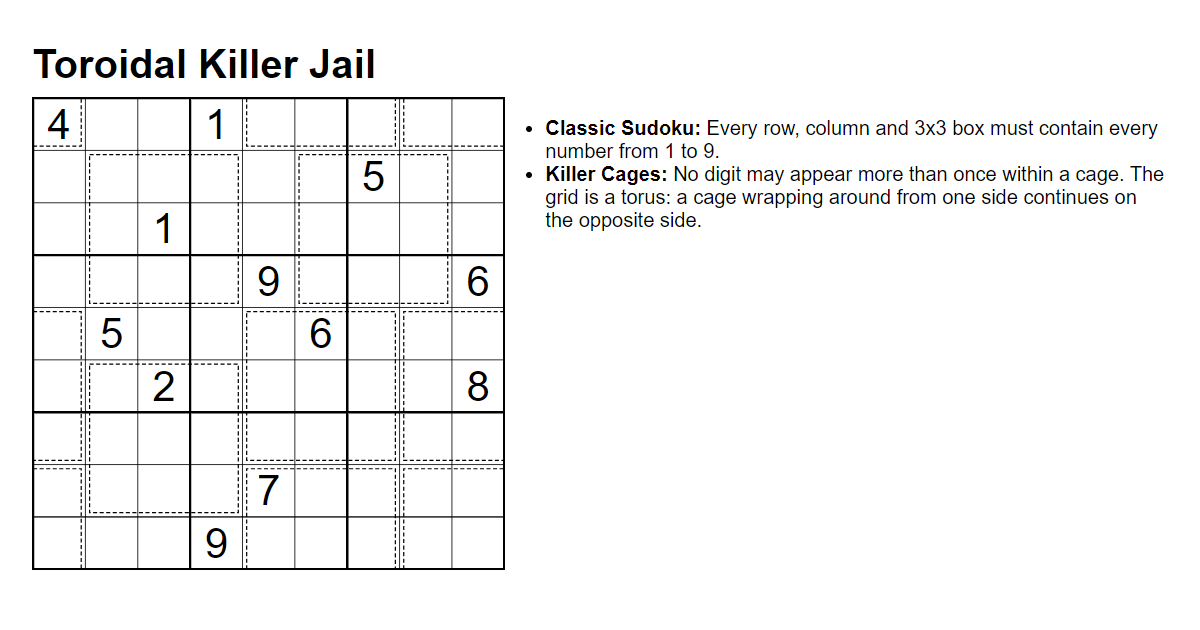
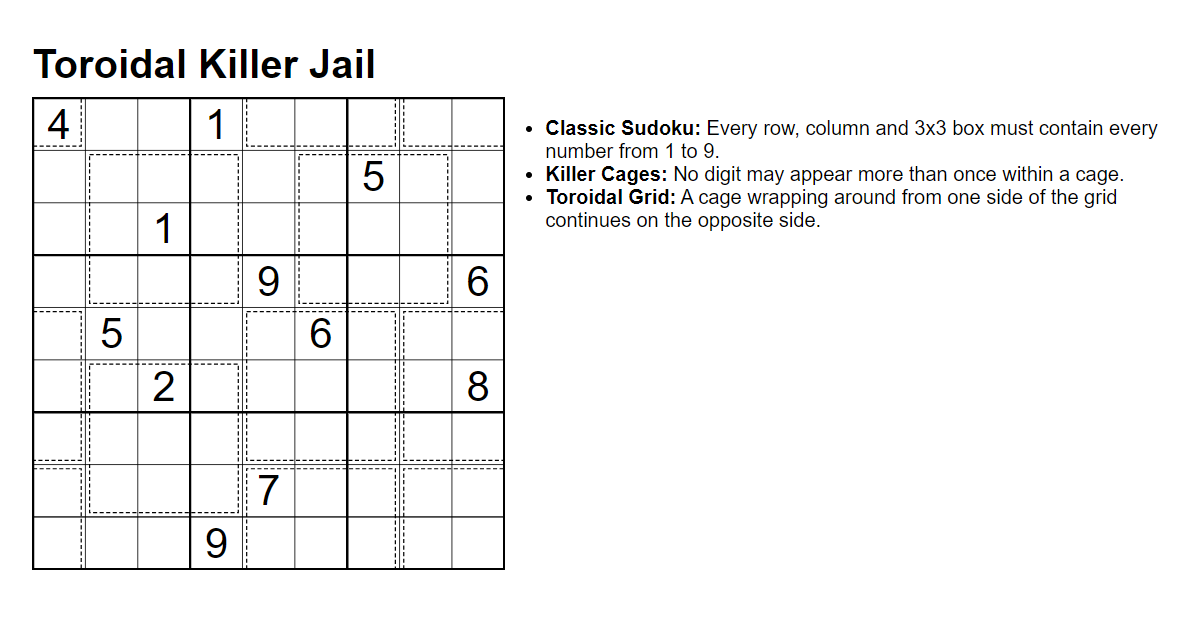
Added new puzzle

Changed region(s): [[0.4317, 0.3016, 0.9558, 0.3619], [0.9558, 0.2714, 0.9867, 0.3016]]

diff --git a/lmd-manager.js b/lmd-manager.js
@@ -1,5 +1,5 @@
 const fs = require('fs');
-const {load: cheerioLoad} = require('cheerio');
+const { load: cheerioLoad } = require('cheerio');
 const { load: ymlLoad } = require('js-yaml');
 const { marked } = require('marked');
 const { Resvg } = require('@resvg/resvg-js');
@@ -8,12 +8,13 @@ const EDIT_PUZZLE_URL = 'https://logic-masters.de/Raetselportal/Eigene/einstelle
 const UPLOAD_IMAGE_URL = 'https://logic-masters.de/Dateien/index.php';
 
 function ymlFromSlug(slug) {
-  return ymlLoad(fs.readFileSync(`./_puzzles/${slug}.md`,'utf-8')
-    .trim().slice(0, -3));
+  if (!slug)
+    return ymlLoad(fs.readFileSync(`./_puzzles/${slug}.md`, 'utf-8')
+      .trim().slice(0, -3));
 }
 
 async function sessionFetchCheerio(url, options = {}) {
-  const postResponse = await sessionFetch(url, {...options});
+  const postResponse = await sessionFetch(url, { ...options });
   const $ = cheerioLoad(await postResponse.text());
 
   if ($('form.login').length > 0)
@@ -36,7 +37,7 @@ async function sessionFetch(url, options = {}) {
 }
 
 function generateHtml(slug, imgCode) {
-  const {title, sudokupad_url: url, rules} = ymlFromSlug(slug);
+  const { title, sudokupad_url: url, rules } = ymlFromSlug(slug);
 
   const rules_html = marked(rules.map(r => `- **${r.name}:** ` + r.desc.replaceAll('\n', '\n    ')).join("\n"))
     .replaceAll(/<(p|li)>/g, '<$1 style="max-width:100%">');
@@ -61,33 +62,37 @@ function generateHtml(slug, imgCode) {
       <a href="https://gianmmv.github.io/puzzles/" title="GiAnMMV's Puzzles" style="color:#0056b3;font-weight:bold;text-decoration:none;margin:10px 0px;">← More puzzles by GiAnMMV</a>
       <a href="https://gianmmv.github.io/puzzles/random/?from=${slug}" title="Random Puzzle..." style="display:inline-block;padding:10px 24px;border-radius:999px;background:#0056b3;color:#fff;font-weight:bold;text-decoration:none;background-image:linear-gradient(in hsl longer hue 45deg, red 0 100%);">Random Puzzle</a>
     </div>`;
-  
+
   return html
     .replace(/^\s+|\s+$/gm, '')
     .replace(/[\r\n]+/g, '');
 }
 
 function solutionCode(slug, indication) {
-  const solution = JSON.parse(fs.readFileSync(`./assets/data/puzzles/${slug}.json`, 'utf-8')).metadata.solution;
-  
+  const puzzle = JSON.parse(fs.readFileSync(`./assets/data/puzzles/${slug}.json`, 'utf-8'));
+  const solution = puzzle.metadata.solution;
+  const w = puzzle.cells[0].length;
+  const boxes = puzzle.regions
+    .map(box => box.map(c => c[0] * w + c[1]).sort((a, b) => a - b))
+    .sort((a, b) => a[0] - b[0]);
+
   const rcb = indication.charAt(0);
   const number = parseInt(indication.slice(1)) - 1;
   switch (rcb) {
     case 'r':
       return [
-        solution.slice(number*9, (number+1)*9),
-        `Row ${number+1}, left to right.`
+        solution.slice(number * w, (number + 1) * w),
+        `Row ${number + 1}, left to right.`
       ];
     case 'c':
       return [
-        [...solution].filter((_, i) => i % 9 === number).join(''),
-        `Column ${number+1}, top to bottom.`
+        [...solution].filter((_, i) => i % w === number).join(''),
+        `Column ${number + 1}, top to bottom.`
       ];
     case 'b':
-      const off = Math.floor(number / 3) * 27 + number % 3 * 3;
       return [
-        solution.slice(off, off+3) + solution.slice(off+9, off+12) + solution.slice(off+18, off+21),
-        `${number === 4 ? 'Middle box' : `Box ${number+1}`}, in reading order.`
+        [...solution].filter((_, i) => boxes[number].includes(i)).join(''),
+        `${number === (boxes.length - 1) / 2 ? 'Middle box' : `Box ${number + 1}`}, in reading order.`
       ];
   }
 }
@@ -107,7 +112,7 @@ function extractPuzzleForm($form) {
     code: [payload.code, payload.codedescr_en],
     dif: parseInt(payload.dif),
     date: (payload.frei === 'ja') ? (
-      `${payload.year}-${payload.month.padStart(2, 0)}-${payload.day.padStart(2, 0)} `+
+      `${payload.year}-${payload.month.padStart(2, 0)}-${payload.day.padStart(2, 0)} ` +
       `${payload.hour.padStart(2, 0)}:${payload.min.padStart(2, 0)}:${payload.sec.padStart(2, 0)}`
     ) : null,
     labels: Object.keys(payload)
@@ -120,7 +125,7 @@ function extractPuzzleForm($form) {
   }
 }
 
-async function uploadPuzzle(slug, params={}) {
+async function uploadPuzzle(slug, params = {}) {
   let url = EDIT_PUZZLE_URL;
 
   const formData = new FormData();
@@ -151,7 +156,7 @@ async function uploadPuzzle(slug, params={}) {
   if (!createMode &&
     Object.keys(DEFAULTS).some((key) => (params[key] ?? lmdData[slug].payload[key]) === undefined)
   ) Object.assign(params, extractPuzzleForm((await sessionFetchCheerio(url))('form').first()));
-  
+
   const { code, dif, date, labels, tags } = Object.keys(DEFAULTS).reduce((acc, key) => {
     acc[key] = params[key] ?? lmdData[slug].payload[key] ?? DEFAULTS[key];
     return acc;
@@ -214,17 +219,17 @@ async function uploadImage(slug) {
 
   const fileBlob = new Blob([fileBuffer], { type: 'image/png' });
 
+  const yml = ymlFromSlug(slug);
+
   if (!(slug in lmdData))
     lmdData[slug] = {};
-
-  const yml = ymlFromSlug(slug);
 
   const formData = new FormData();
   formData.append('datei', fileBlob, 'image.png');
   formData.append('MAX_FILE_SIZE', '4194304');
   formData.append('name', yml.title);
   formData.append('anmerkung', "I'm the author of this puzzle.");
-  
+
   if ('img_id' in lmdData[slug]) {
     url += `?id=${lmdData[slug].img_id}`;
     formData.append('new', 'Neue Version hochladen');
@@ -252,7 +257,7 @@ async function main() {
     await uploadImage(slug);
   else if (rawArgs[1] === '--update-puzzle') {
     if (rawArgs.length > 1)
-      await uploadPuzzle(slug, {comment: rawArgs[2]});
+      await uploadPuzzle(slug, { comment: rawArgs[2] });
     else
       await uploadPuzzle(slug);
   }
@@ -264,4 +269,4 @@ async function main() {
     }, {});
   fs.writeFileSync('lmd-data.json', JSON.stringify(lmdData_ordered, null, 2));
 }
-main();
+main().catch(console.error);

diff --git a/_puzzles/toroidal-killer-jail.md b/_puzzles/toroidal-killer-jail.md
@@ -2,11 +2,13 @@
 title: "Toroidal Killer Jail"
 creation_date: 2026-11-07
 order: 49
-sudokupad_url: https://sudokupad.app/ykpxr1d8ty
+sudokupad_url: https://sudokupad.app/lu2xi9w1sm
 lmd_id: "000VYB"
 rules:
   - name: "Classic Sudoku"
     desc: "Every row, column and 3x3 box must contain every number from 1 to 9."
   - name: "Killer Cages"
-    desc: "No digit may appear more than once within a cage. The grid is a torus: a cage wrapping around from one side continues on the opposite side."
+    desc: "No digit may appear more than once within a cage."
+  - name: "Toroidal Grid"
+    desc: "A cage wrapping around from one side of the grid continues on the opposite side."
 ---

diff --git a/_puzzles/toroidal-german-whispers.md b/_puzzles/toroidal-german-whispers.md
@@ -1,0 +1,13 @@
+---
+title: "Toroidal German Whispers"
+creation_date: 2026-11-09
+order: 50
+sudokupad_url: https://sudokupad.app/v0avpt44ie
+rules:
+  - name: "Classic Sudoku"
+    desc: "Every row, column and 3x3 box must contain every number from 1 to 9."
+  - name: "German Whispers"
+    desc: "Every two consecutive digits along a green line must have a difference of at least 5."
+  - name: "Toroidal Grid"
+    desc: "A line wrapping around from one side of the grid continues on the opposite side."
+---
